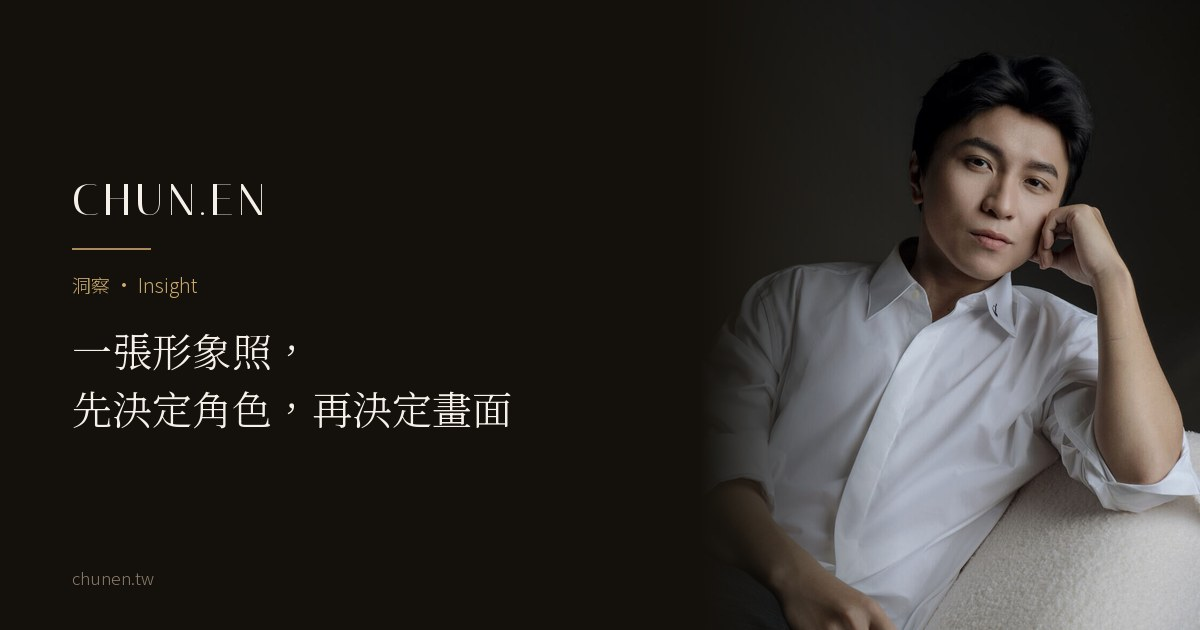
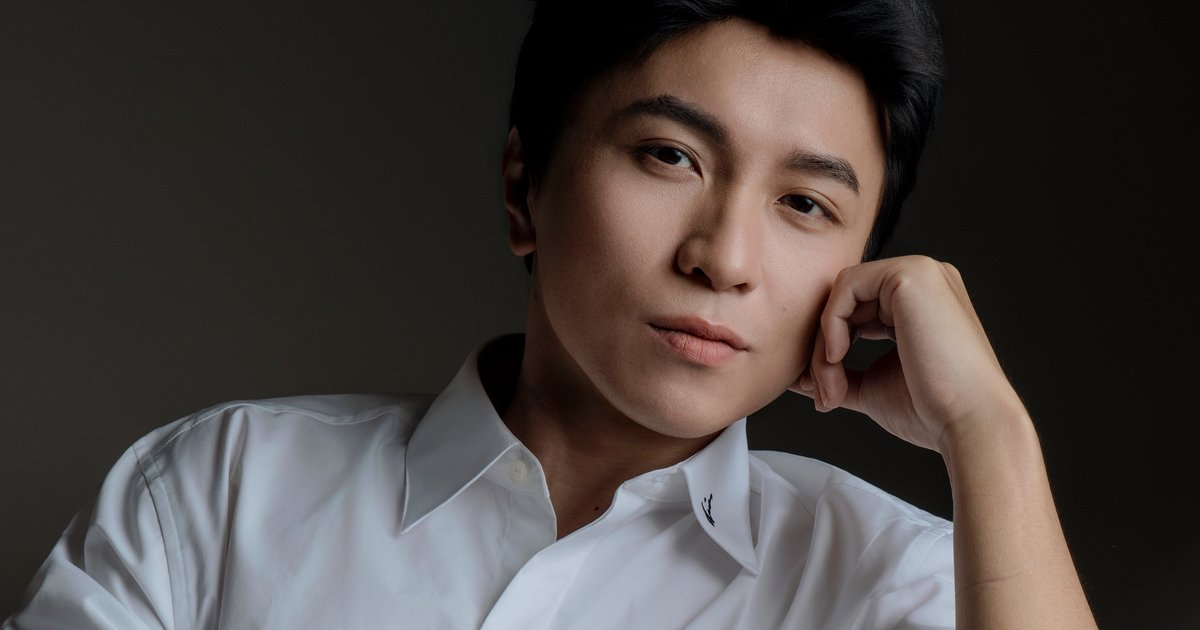
fix(journal): positioning 文 hero/目錄卡/og 改用原檔重切高解析圖（修模糊）

diff --git a/journal/positioning-decides-portrait.html b/journal/positioning-decides-portrait.html
@@ -76,7 +76,7 @@
 
     <div class="wrap article-wrap">
       <div class="jcard-media rv" style="aspect-ratio: 16/9; overflow: hidden; margin-bottom: clamp(2.5rem, 6vh, 4rem);">
-        <img src="../assets/gallery/works/03-1400.jpg" alt="商務形象照：角色先定下來，畫面才有依據" style="width:100%;height:100%;object-fit:cover;object-position:center 20%;" />
+        <img src="../assets/gallery/journal/positioning-decides-portrait-hero-1920.jpg" alt="商務形象照：角色先定下來，畫面才有依據" style="width:100%;height:100%;object-fit:cover;object-position:center 20%;" />
       </div>
 
       <div class="keypoints rv">
@@ -158,7 +158,7 @@
     "@type": "Article",
     "headline": "一張形象照，先決定角色，再決定畫面",
     "description": "一張商業形象照有兩層：角色決定畫面要說什麼，服裝、妝髮與攝影決定它怎麼被看見。角色先定下來，畫面才有依據。",
-    "image": "https://chunen.tw/assets/gallery/works/03-1400.jpg",
+    "image": "https://chunen.tw/assets/gallery/journal/positioning-decides-portrait-hero-1920.jpg",
     "author": {"@type": "Person", "@id": "https://chunen.tw/author/zoey-wu.html#zoey", "name": "吳惇恩", "alternateName": "Zoey Wu", "jobTitle": "Founder & Brand Director", "image": "https://chunen.tw/assets/images/zoey-author-640.jpg", "url": "https://chunen.tw/author/zoey-wu.html"},
     "publisher": {"@type": "Organization", "name": "CHUN.EN 形象美學", "logo": {"@type": "ImageObject", "url": "https://chunen.tw/icon-512.png"}},
     "datePublished": "2026-07-14",

diff --git a/journal/index.html b/journal/index.html
@@ -75,7 +75,7 @@
     <div class="wrap">
       <div class="journal-grid rv">
         <a class="jcard feat" href="positioning-decides-portrait.html">
-          <div class="jcard-media"><img src="../assets/gallery/works/03-1400.jpg" alt="角色先定下來，畫面才有依據" loading="lazy" /></div>
+          <div class="jcard-media"><img src="../assets/gallery/journal/positioning-decides-portrait-card-2520.jpg" alt="角色先定下來，畫面才有依據" loading="lazy" /></div>
           <div class="jcard-body">
             <span class="jcard-cat">洞察 · Insight</span>
             <h3>一張形象照，先決定角色，再決定畫面</h3>
